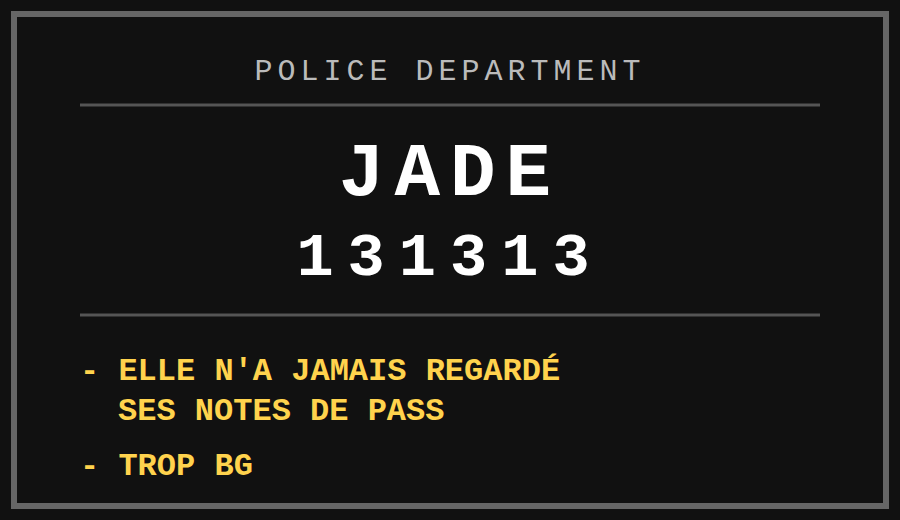
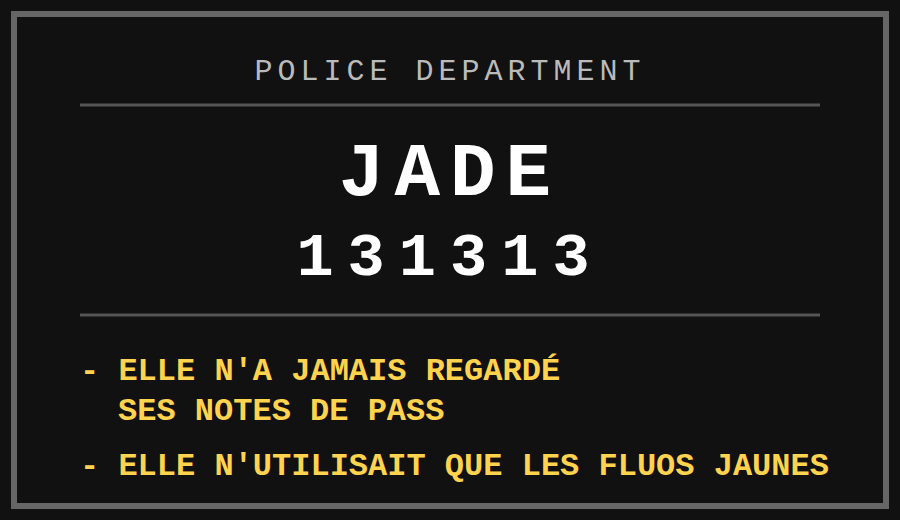
Update Jade placard second anecdote
Claude-Session: https://claude.ai/code/session_013qRqLeeUSNL2kFqN6GuY8j

Changed region(s): [[0.4978, 0.8615, 0.9333, 0.9231], [0.2489, 0.8615, 0.4667, 0.9231], [0.1244, 0.8615, 0.2178, 0.9231]]

diff --git a/mugshot/pancarte_jade.html b/mugshot/pancarte_jade.html
@@ -12,6 +12,6 @@
   <g font-family="Courier New, monospace" font-size="32" font-weight="bold" fill="#ffd34d">
     <text x="80" y="380">- ELLE N'A JAMAIS REGARDÉ</text>
     <text x="118" y="420">SES NOTES DE PASS</text>
-    <text x="80" y="475">- TROP BG</text>
+    <text x="80" y="475">- ELLE N'UTILISAIT QUE LES FLUOS JAUNES</text>
   </g>
 </svg></body></html>
